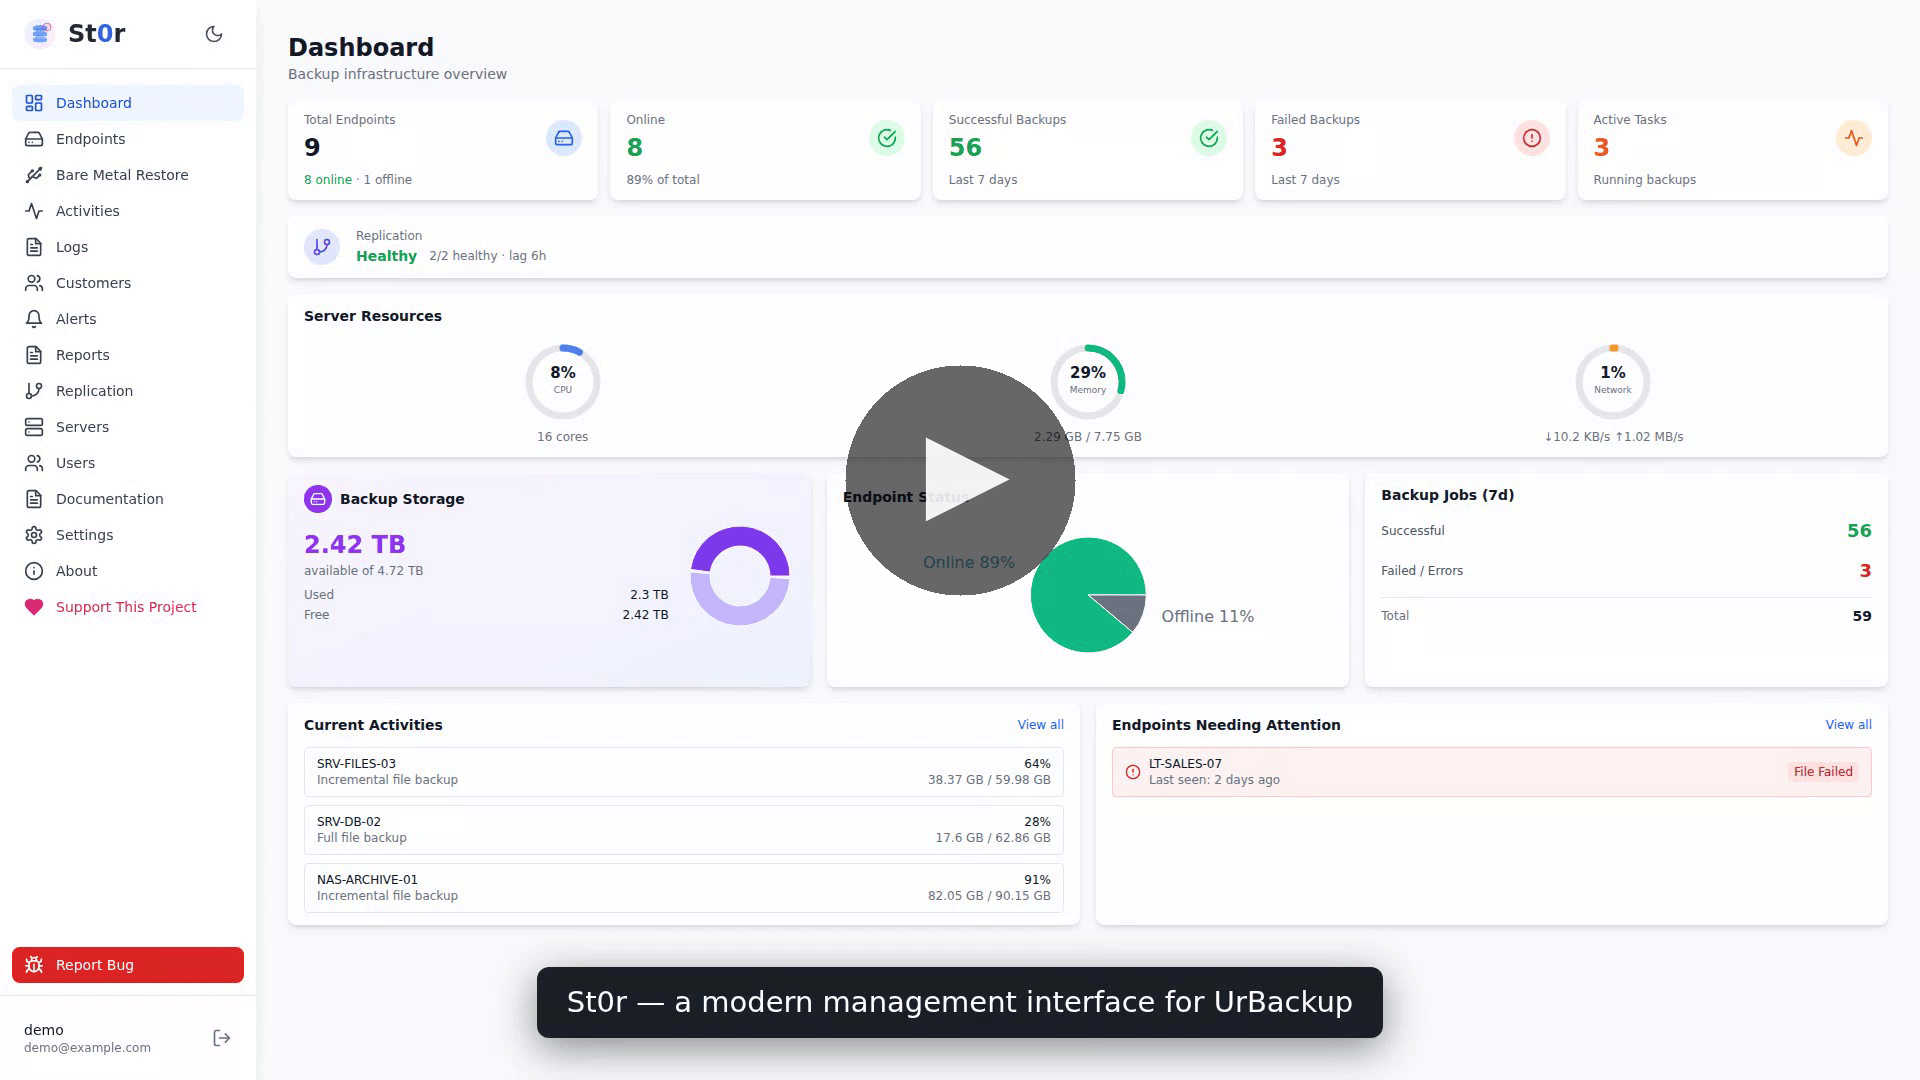
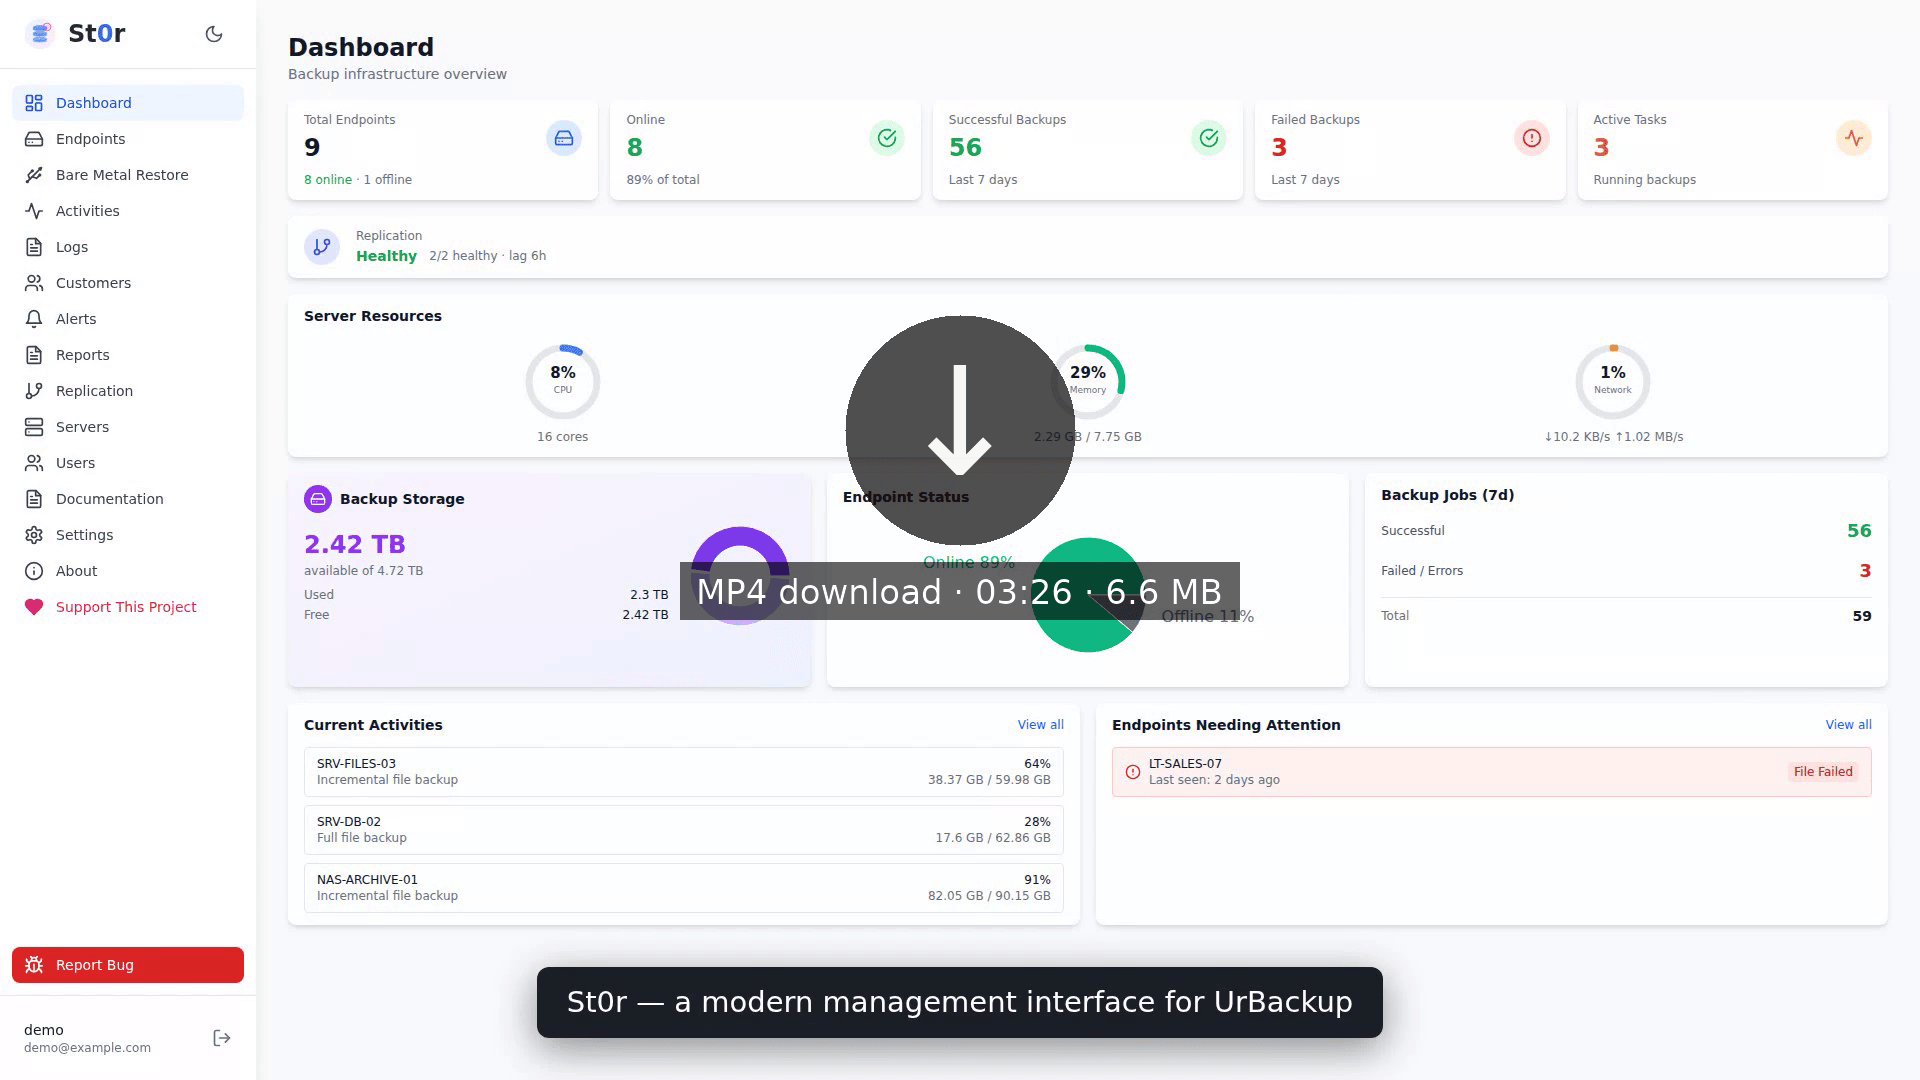
Replace the poster's play badge with a download badge
The still promised a player the link cannot deliver. It now carries a
download arrow and the label "MP4 download · 03:26 · 6.6 MB", matching
the README wording.

Two things worth keeping in the script: drawtext treats a bare ':' as
the end of the option, so mm:ss has to be escaped or the label is
silently truncated, and the badge canvas has to be wide enough for the
whole label because drawtext neither wraps nor shrinks to fit.

Changed region(s): [[0.3438, 0.275, 0.6562, 0.5806]]

diff --git a/scripts/demo/README.md b/scripts/demo/README.md
@@ -95,7 +95,7 @@ binaries do not belong in normal Git history.
 |---|---|
 | `st0r-walkthrough.mp4` | The main walkthrough — 1920×1080, 30 fps, H.264, `+faststart` |
 | `st0r-highlight.mp4` | The short highlight clip |
-| `poster.png` | A walkthrough frame with a play badge composited on, for use as a thumbnail |
+| `poster.png` | A walkthrough frame with a download badge composited on, for use as the README thumbnail |
 | `st0r-walkthrough.vtt` | WebVTT captions, generated from the same cue list the video was drawn from |
 | `st0r-walkthrough-transcript.md` | Plain-text transcript with timestamps |
 | `raw/` | The original WebM recordings — delete these once the MP4s are verified |
